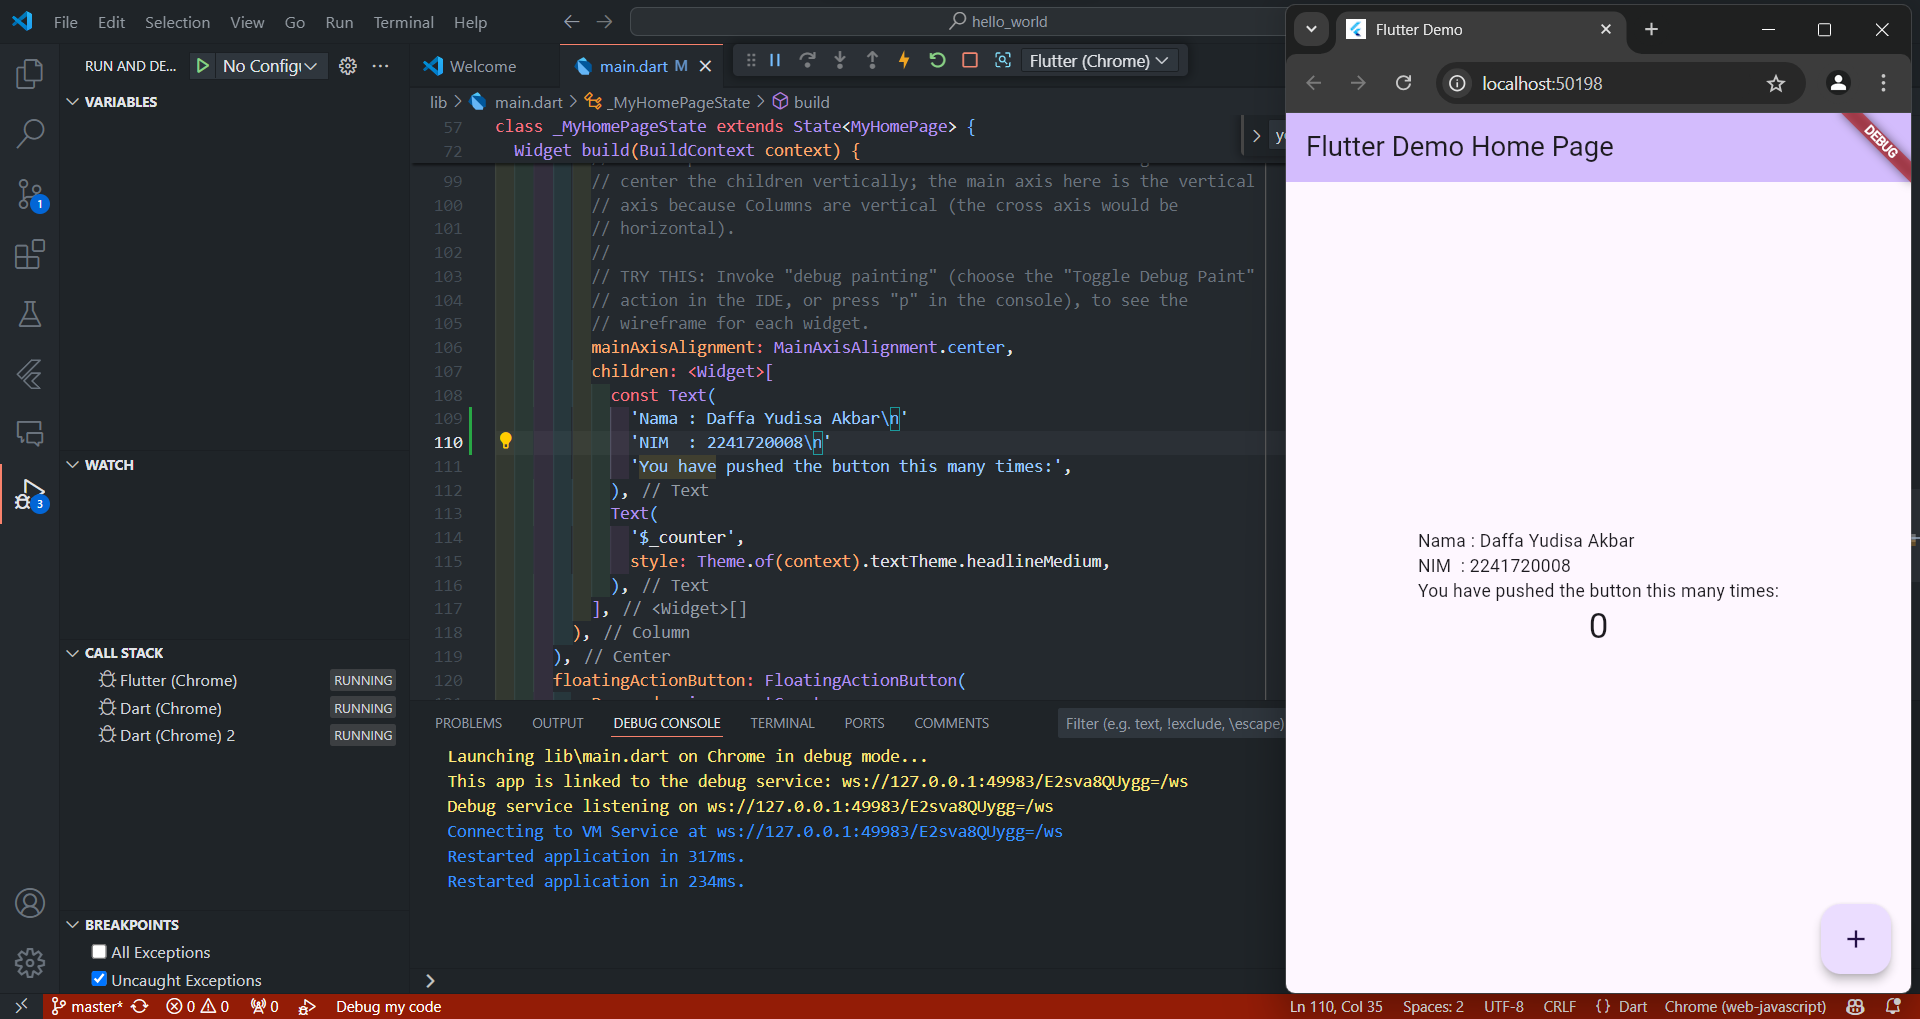
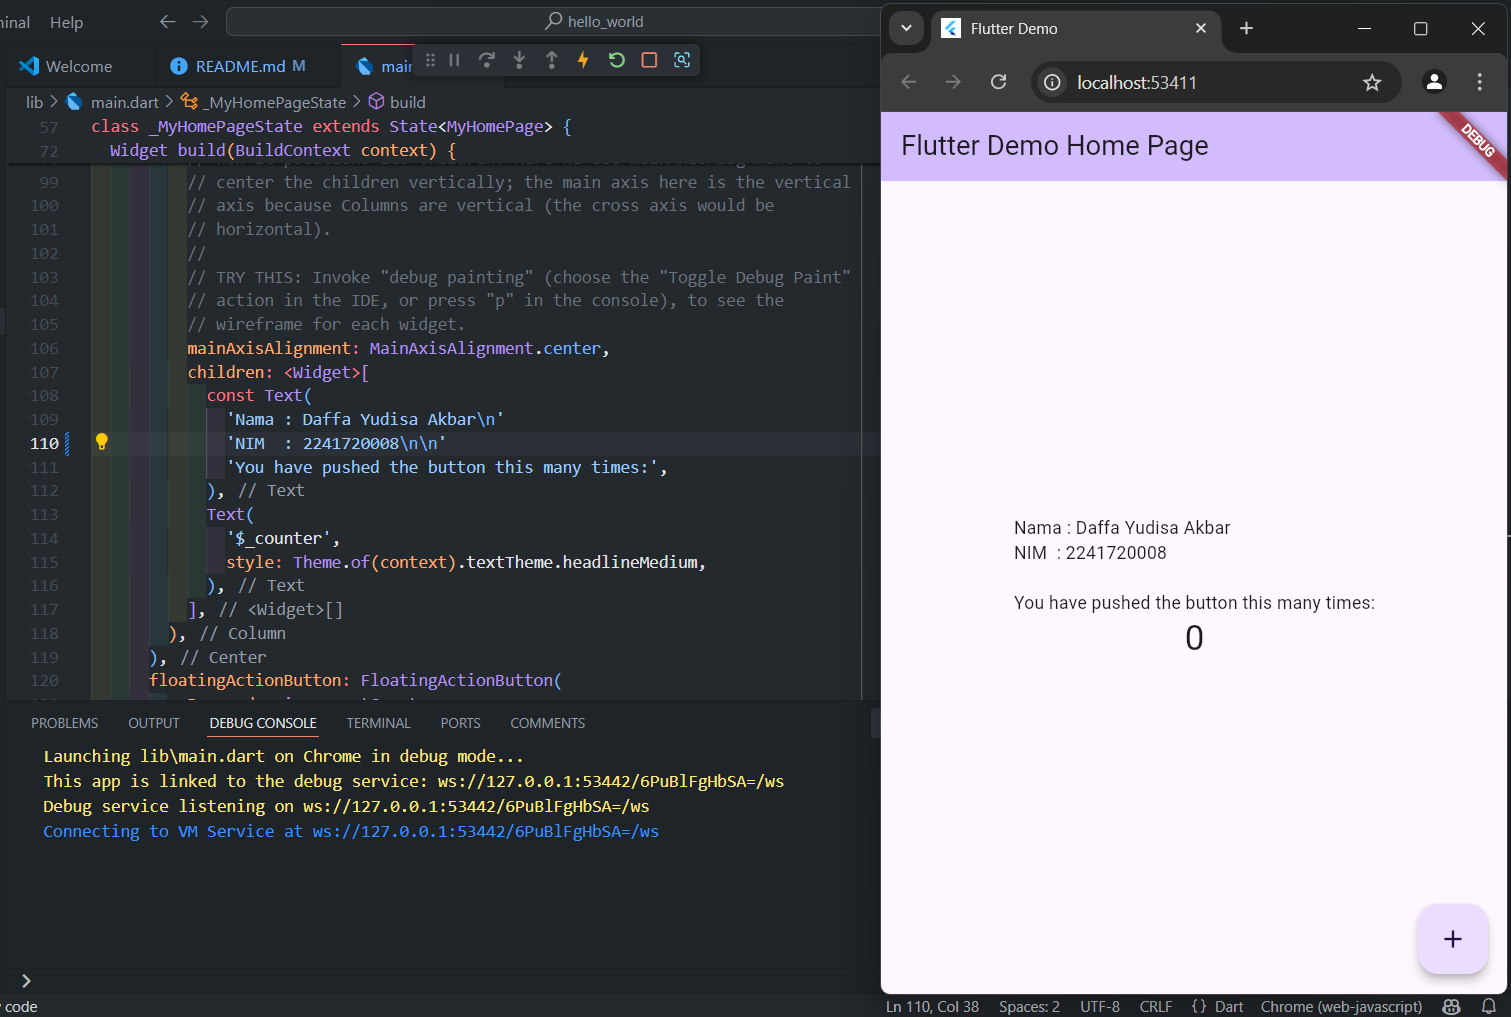
fix: identity text

diff --git a/lib/main.dart b/lib/main.dart
@@ -107,7 +107,7 @@ class _MyHomePageState extends State<MyHomePage> {
           children: <Widget>[
             const Text(
               'Nama : Daffa Yudisa Akbar\n'
-              'NIM  : 2241720008\n'
+              'NIM  : 2241720008\n\n'
               'You have pushed the button this many times:',
             ),
             Text(

diff --git a/README.md b/README.md
@@ -2,15 +2,4 @@
 
 A new Flutter project.
 
-## Getting Started
-
-This project is a starting point for a Flutter application.
-
-A few resources to get you started if this is your first Flutter project:
-
-- [Lab: Write your first Flutter app](https://docs.flutter.dev/get-started/codelab)
-- [Cookbook: Useful Flutter samples](https://docs.flutter.dev/cookbook)
-
-For help getting started with Flutter development, view the
-[online documentation](https://docs.flutter.dev/), which offers tutorials,
-samples, guidance on mobile development, and a full API reference.
+![screenshot hello_world](images/01.png)
